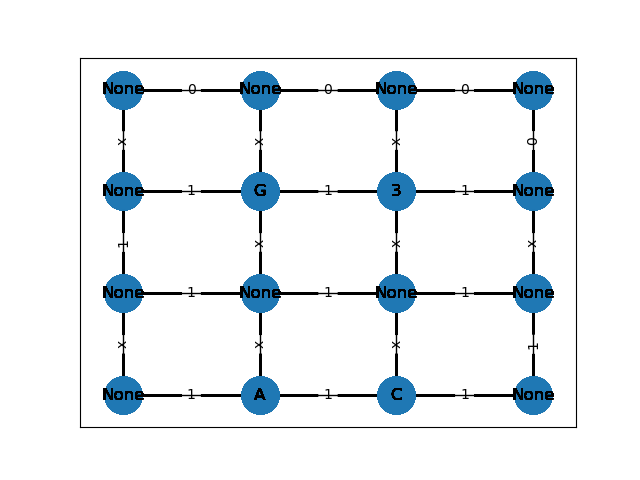
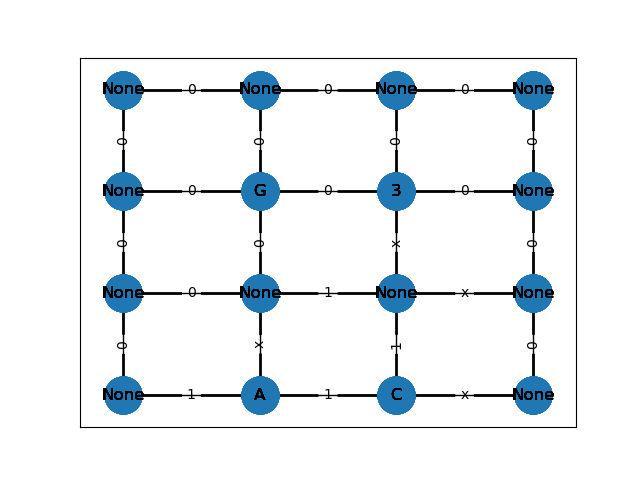
add color

diff --git a/variation_on_51_area_puzzle.py b/variation_on_51_area_puzzle.py
@@ -36,6 +36,7 @@ class Clues:
         self.row = position[0]
         self.col = position[1]
         self.clue = clue_type
+        self.color = None
         self.upper_cell = ()
         self.lower_cell = ()
         self.left_cell = ()
@@ -125,7 +126,8 @@ class Clues:
         else:
             return f"{vertical} and {horizontal}"
 
-
+    def add_clue_color(self, color):
+        self.color = color
 
 
     # start with the alien node; check their relative location to other clue; make deduction first
@@ -241,7 +243,7 @@ class StackDictionary(dict):
             return None
         keys = list(self.keys())
         second_last_key = keys[-2]
-        return self[second_last_key]
+        return second_last_key, self[second_last_key]
 
 
     def popitem(self) -> Union[tuple, None]:
@@ -297,46 +299,47 @@ class Solver:
                     if 0 <= neighbor_row < row_of_puzzle and 0 <= neighbor_col < col_of_puzzle:
                         self.starting_graph.add_edge((row, col), (neighbor_row, neighbor_col), relationship=0)
 
-    def is_valid_connection(self, node, neighbor, graph_state) -> bool:
+    def is_valid_connection(self, node, neighbor) -> bool:
         """
-        check whether this node is valid to be added in the traversed edges.
+        check whether this connection violates any rule.
         :param node1: The node before being added to the traversed edges (stack dictionary)
         :param node2: The node before being added to the traversed edges (stack dictionary)
 
         :return: boolean
-        >>> the_node = (1, 1)
-        >>> self.starting_graph.add_edges_from([((0, 1),(1,1)), ((1, 0),(1,1)), ((1,1), (2,1))])
-        >>> puzzle = [[None, None, None],
-        ...            ['A', None, 'G'],
-        ...            ['C', None, 3]]
-        >>> graph = Solver(puzzle)
-        >>> graph.is_valid_connection(the_node)
-        False
-
         """
-        last_move = self.traversed_nodes.peek()[1]['move']
-        last_node = self.traversed_nodes.peek()[0]
-        for move in last_move:
-            if move[-1] == 1:
-                the_last_edge = move[0]
-                break
-        if node in Clues.clue_position:
-            clue_object = Clues.clue_position[node]
-            the_clue_type = Clues.clue_position[node].clue
-            current_edge = tuple(sorted((node, neighbor)))
-            if the_clue_type == 'A':
-                if last_node[0] < node[0]:
-                    if current_edge == clue_object.upper_edge:
-                        return False
-                if last_node[1] == node[1]:
-                    if current_edge == clue_object.left_edge:
-                        return False
+        # check whether alien has any edge and what the color of edge's other side is.
+        # the same for the other clues
+        for alien in Clues.aliens:
+            if alien.color == 'Blue':
+                return False
 
-        # check if the edge is one of the edges of the clue
+        for cactus in Clues.cactus:
+            if cactus.color == 'Green':
+                return False
 
+        for guard in Clues.guard:
+            if guard.color == 'Blue':
+                return False
 
+        return True
 
-
+        # last_move = self.traversed_nodes.peek()[1]['move']
+        # last_node = self.traversed_nodes.peek()[0]
+        # for move in last_move:
+        #     if move[-1] == 1:
+        #         the_last_edge = move[0]
+        #         break
+        # if node in Clues.clue_position:
+        #     clue_object = Clues.clue_position[node]
+        #     the_clue_type = Clues.clue_position[node].clue
+        #     current_edge = tuple(sorted((node, neighbor)))
+        #     if the_clue_type == 'A':
+        #         if last_node[0] < node[0]:
+        #             if current_edge == clue_object.upper_edge:
+        #                 return False
+        #         if last_node[1] == node[1]:
+        #             if current_edge == clue_object.left_edge:
+        #                 return False
 
 
     def is_valid_solution(self) -> bool:
@@ -449,6 +452,75 @@ class Solver:
             #                                                  relationship='x')
             #                     print('followed')
 
+    def reverse_color_on_other_side(self, node, color):
+        reversed_color = None
+        if color == 'Green':
+            reversed_color = 'Blue'
+        elif color == 'Blue':
+            reversed_color = 'Green'
+        for edge in Clues.clue_position[node].surrounded_edges:
+            if self.check_edge_status(edge[0], edge[1], self.starting_graph) == 1:
+                if edge == Clues.clue_position[node].upper_edge:
+                    upper_cell = Clues.clue_position[node].upper_cell
+                    if upper_cell:
+                        Clues.clue_position[upper_cell].color = reversed_color
+                        # self.traversed_nodes[upper_cell]['color'] =
+                elif edge == Clues.clue_position[node].left_edge:
+                    left_cell = Clues.clue_position[node].left_cell
+                    if left_cell:
+                        Clues.clue_position[left_cell].color = reversed_color
+                elif edge == Clues.clue_position[node].right_edge:
+                    right_cell = Clues.clue_position[node].right_cell
+                    if right_cell:
+                        Clues.clue_position[right_cell].color = reversed_color
+                elif edge == Clues.clue_position[node].lower_edge:
+                    lower_cell = Clues.clue_position[node].lower_cell
+                    if lower_cell:
+                        Clues.clue_position[lower_cell].color = reversed_color
+
+    def add_color(self, node, neighbor):
+        if node[0] == 0 or node[0] == len(self.starting_puzzle) or node[0] == 0 or node[0] == len(self.starting_puzzle[0]):
+            if neighbor[0] == 0 or neighbor[0] == len(self.starting_puzzle) or neighbor[0] == 0 or neighbor[0] == len(self.starting_puzzle[0]):
+                if node in Clues.clue_position:
+                    # this color represents the cell's color
+                    self.traversed_nodes[node]['color'] = (node, 'Green')
+                    Clues.clue_position[node].add_clue_color('Green')
+        if node in Clues.clue_position:
+            if Clues.clue_position[node].clue == 'A':
+                self.clues_in_solution['A'] = [node]
+                self.traversed_nodes[node]['color'] = (node, 'Green')
+                Clues.clue_position[node].add_clue_color('Green')
+                # check if there is edge around the clue cell, if there is, mark the other side cell as Blue
+                self.reverse_color_on_other_side(node, 'Green')
+            elif Clues.clue_position[node].clue == 'C':
+                self.traversed_nodes[node]['color'] = (node, 'Blue')
+                Clues.clue_position[node].add_clue_color('Blue')
+                self.reverse_color_on_other_side(node, 'Blue')
+            elif Clues.clue_position[node].clue == 'G':
+                self.clues_in_solution['G'] = [node]
+                self.traversed_nodes[node]['color'] = (node, 'Green')
+                Clues.clue_position[node].add_clue_color('Green')
+                self.reverse_color_on_other_side(node, 'Green')
+            elif isinstance(Clues.clue_position[node].clue, int):
+                self.clues_in_solution[Clues.clue_position[node].clue] = [node]
+                self.traversed_nodes[node]['color'] = (node, 'Green')
+                Clues.clue_position[node].add_clue_color('Green')
+                self.reverse_color_on_other_side(node, 'Green')
+        last_move = self.traversed_nodes.peek_last_two()
+        if last_move:
+            last_node, move = last_move
+            color = None
+            if 'color' in move:
+                color = move['color'][-1]
+            if color:
+                if last_node in Clues.clue_position and node in Clues.clue_position:
+                    Clues.direction_to(Clues.clue_position[last_node], Clues.clue_position[node])
+                    for edge in Clues.clue_position[last_node].surrounded_edges:
+                        if edge in Clues.clue_position[last_node].surrounded_edges:
+                            if self.check_edge_status(edge[0], edge[1], self.starting_graph) == 'x':
+                                self.traversed_nodes[node]['color'] = (node, color)
+                                Clues.clue_position[node].add_clue_color(color)
+
     def check_cell_status(self, the_edge1, the_edge2) -> tuple:
         """
         find the top left corner node position (the cell) given two edges
@@ -467,26 +539,29 @@ class Solver:
         StackDict (all the valid moves) -> {(row, col): {'neighbor': (), 'move':[]}
 
         :param node:
+        :param neighbors:
+
         :return:
         """
         # if there is no move yet
+        # if 'clue' in self.starting_graph.nodes[node]:
+        #     the_clue = self.starting_graph.nodes[node]['clue']
+        #     # if self.check_edge_status(node, neighbor, self.starting_graph) == 0:
         if not self.visited_edge:
-            if 'clue' in self.starting_graph.nodes[node]:
-                the_clue = self.starting_graph.nodes[node]['clue']
-            for neighbor in neighbors:
-                if self.check_edge_status(node, neighbor, self.starting_graph) == 0:
-                    self.starting_graph.add_edge(node, neighbor, relationship=1)
-                    print(f'node {node} neighbor {neighbor}')
-                    print(self.starting_graph[node][neighbor]['relationship'])
-                    # self.visited_node.append(node)
-                    # self.visited_node.append(neighbors[0])
-                    the_edge = tuple(sorted((node, neighbor)))
-                    self.visited_edge.append(the_edge)
-                    neighbors.remove(neighbor)
-                    self.traversed_nodes[node]['move'].append((the_edge, 1))
-                    if self.check_clue_status(node, self.starting_graph) == 2:
-                        self.cross_out_edges_if_two_edges(node, self.starting_graph)
-                    return True
+
+            self.starting_graph.add_edge(node, neighbors[0], relationship=1)
+            print(f'node {node} neighbor {neighbors[0]}')
+            print(self.starting_graph[node][neighbors[0]]['relationship'])
+            # self.visited_node.append(node)
+            # self.visited_node.append(neighbors[0])
+            the_edge = tuple(sorted((node, neighbors[0])))
+            self.visited_edge.append(the_edge)
+            neighbors.remove(neighbors[0])
+            self.traversed_nodes[node]['move'].append((the_edge, 1))
+            self.add_color(node, neighbors[0])
+            if self.check_clue_status(node, self.starting_graph) == 2:
+                self.cross_out_edges_if_two_edges(node, self.starting_graph)
+            return True
         else:
             # if node[0] < len(self.starting_puzzle) and node[1] < len(self.starting_puzzle[1]):
             #     the_clue = Clues.clue_position[node]
@@ -505,7 +580,7 @@ class Solver:
             else:
                 for neighbor in neighbors:
                     if self.check_edge_status(node, neighbor, self.starting_graph) == 0:
-                        self.is_valid_connection()
+                        # self.is_valid_connection()
                         self.starting_graph.add_edge(node, neighbor, relationship=1)
                         print(f'node {node} neighbor {neighbor}')
                         print(self.starting_graph[node][neighbor]['relationship'])
@@ -513,6 +588,7 @@ class Solver:
                         self.visited_edge.append(the_edge)
                         neighbors.remove(neighbor)
                         self.traversed_nodes[node]['move'].append((the_edge, 1))
+                        self.add_color(node, neighbor)
                         # self.visited_node.append(node)
                         # self.visited_node.append(neighbors[0])
                         if self.check_clue_status(node, self.starting_graph) == 2:
@@ -570,17 +646,17 @@ class Solver:
         # starting from one alien to traverse the puzzle
         # valid_neighbors = self.are_valid_neighbors((aliens[0].row, aliens[0].col), neighbors, self.starting_graph)
 
-        while self.loop_detection is False or self.is_valid_solution() is False:
+        while self.is_valid_solution() is False:
             try:
-                # direction = 'up'
                 next_node = self.next_valid_node()
                 next_round, neighbors = self.find_valid_neighbors(next_node)
-                self.traversed_nodes[next_node] = {'neighbors': neighbors, 'move': []}
-                successful_edge = self.make_connection(next_node, neighbors)
+                self.traversed_nodes[next_node] = {'neighbors': neighbors, 'move': [], 'color': None}
+                connecting_edge = self.make_connection(next_node, neighbors)
                 # if next_node[0] < len(self.starting_puzzle) and next_node[1] < len(self.starting_puzzle[1]):
                 #     the_clue = Clues.clue_position[next_node]
                 #     if the_clue.clue == 'A':
                 #         self.follow_alien_rule(next_node)
+                successful_edge = self.is_valid_connection(next_round, neighbors)
                 if not successful_edge:
                     if self.loop_detection:
                         self.is_valid_solution()
@@ -606,6 +682,7 @@ class Solver:
             if the_tuple[-1] == 1:
                 self.starting_graph.add_edge(the_tuple[0][0], the_tuple[0][1], relationship='x')
                 self.traversed_nodes[node]['move'].append((tuple(sorted((the_tuple[0][0], the_tuple[0][1]))), 'x'))
+                self.add_color(node, neighbors[0])
                 self.visited_node.append(the_tuple[0][0])
                 self.visited_node.append(the_tuple[0][1])
             elif the_tuple[-1] == 'x':
@@ -614,7 +691,6 @@ class Solver:
                 self.visited_node.append(the_tuple[0][0])
                 self.visited_node.append(the_tuple[0][1])
         return True
-
 
     def backtrack(self):
         while True:

diff --git a/README.md b/README.md
@@ -1,31 +1,17 @@
-## 2024 Spring Finals
+## Area 51 Variation
 
-Each project from this semester is a public fork linked from this repository.  This is just one of the many assignments students worked on for the course, but this is the *only* one they are permitted to publish openly.
+This program aims to design and implement a variation on the 51 area puzzle. The inspiration is from
+https://krazydad.com/area51/
 
-## Final Project Expectations:
+## Design:
 
-You have considerable flexibility about specifics and you will publish your project openly (as a fork from here) to allow making it part of your portfolio if you choose.  You may work alone or in a team of two students. 
+I would get rid of the uncircled numbers but add the Air Force
+protection around fences. Air Force security humans always patrol along the (inside) the fence line. (meaning the
+fence must be adjacent to every human on at least one side)
+Cactus, 'C': it can only be outside the fences
+Alien, 'A': it can only be inside the fences
+Circled number: since in this variation there is no uncircled clue, all numbers mean the circled clue
+                  It means are always inside the fence; they indicate visibility conditions.
+                  This number counts the total squares visible looking north, south, east, and west from the coded location,
+                  and includes the code square itself.
 
-Regardless of topic, it must involve notable amounts of original work of your own, though it can of course use existing libraries or be inspired by or built upon some other published work(s). 
-
-PLAGIARISM IS NOT ACCEPTABLE. From the first commit through all production of documentation and code, it must be crystal clear which, if any, parts of the project were based on or duplicated from any other source(s) all of which must be cited. This should be so specific that any evaluator can tell which lines of code are original work and which aren't. Same for all written narrative, documentation, images, significant algorithms, etc.
-
-## Project Types you may choose:
-
-(Making original _variations_ of puzzles and games isn't as difficult as it may seem -- we have already done this in class. _Though admittedly, making *good* game variations -- that are well-balanced, strategically interesting, with good replay value_ can take expertise or luck and play-testing with revisions.  Such balanced elegance is desirable but might not be achievable here, given the short time you have.)
-
-1. Devise your own new _original_ type of logic puzzle or an _original variation_ of existing puzzle type. Like with previous homework, your program should be able to randomly generate new puzzles of your type and automatically verify that all puzzles generated comply with the standard meta-rule that only one valid solution exists. It needs to output the _unsolved_ puzzles in a way that a human can print or view them conveniently to try solving them and to somehow output (to file?) or display the solution for each puzzle when requested, so as not to spoil the challenge. An interactive UI to "play" the puzzles interactively is very nice but *not* required. 
-
-2. OR develop an AI game player for an _original variation_ of some existing strategy game.  If you do this, it needs to be set up so it can either play computer-vs-computer and/or against human players with a reasonable text or graphical UI. 2B. If two teams want to independently develop AI players for the same type of game variant as each other (but using different algorithms, strategies, and/or data structures) so they can compete, that is okay.  A sub-variation is to enable this game type on our course game server, discuss with the instructor if this is of interest.
-
-3. OR Computationally 'Solve' a game.  _Background: Some strategic games, especially those of perfect information are known to be "solved". See https://en.wikipedia.org/wiki/Solved_game, which we discussed in class._  Sometimes these proofs are done through mathematical analysis, other times through exhaustive computational verification. If you choose this option, you can either write your own code or modify some existing code that plays a game, to exhaustively analyze a game to attempt to prove if it is "solved" in this way for certain configurations. Changes to rules or conditions of a known solved game can alter this outcome and require reanalysis.
-
-
-## Deliverables and other Requirements:
-
-* Have some fun!
-* In your own fork, please replace this README.md file's contents with a good introduction to your own project. 
-* Targeted Algorithm Analysis:  Regardless of which option you choose, you need to _describe the performance characteristics of some critical parts of your program and explain why you chose the data structures and core algorithm(s) you did_. Examples, if you chose Type #1, what's the Big-O, Big-Theta, or Big-Omega run-time complexity of your puzzle solver? Or the puzzle generator? If you're doing Type #2 and using minimax or negamax, what's the complexity of your _heuristic evaluation function_? ...and of the function that finds all legal moves from a game state? 
-* Performance Measurement: Supplement the analysis above with run-time measurements of multiple iterations of the game or puzzles as discussed in class. Sample results from a run-time profiler is a good idea at least as part of the measurements.
-* If your team has more than one student, see that everyone makes substantial git commits. In addition, your README documentation should include a summary of how you shared the work.
-* Live in-class presentation & demonstration of your work.
